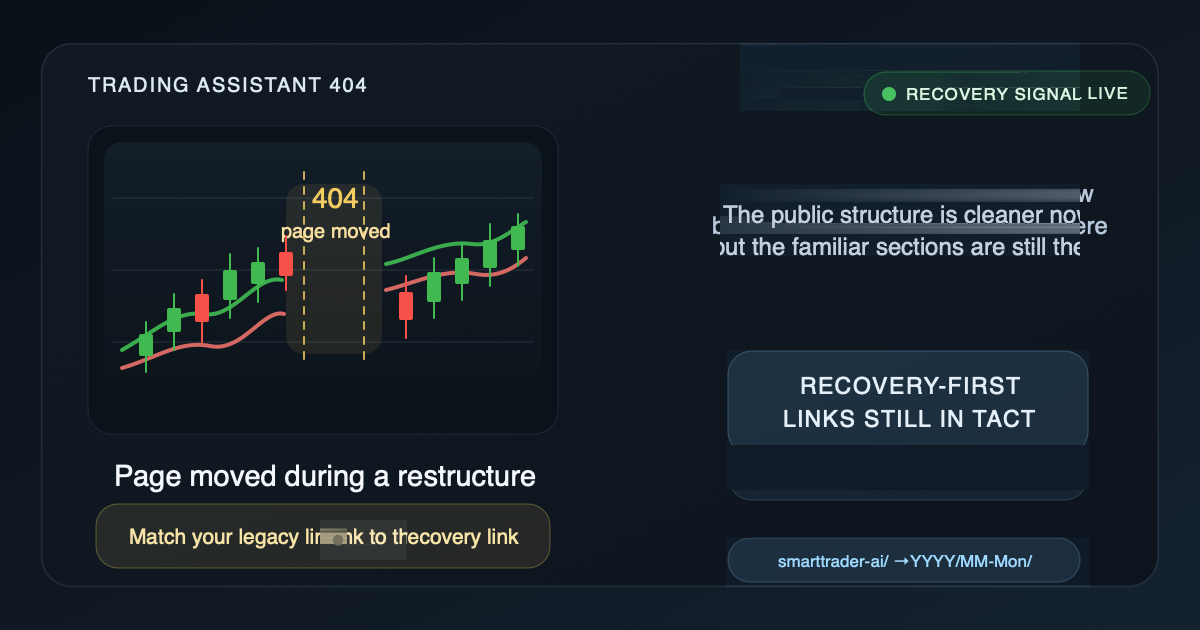
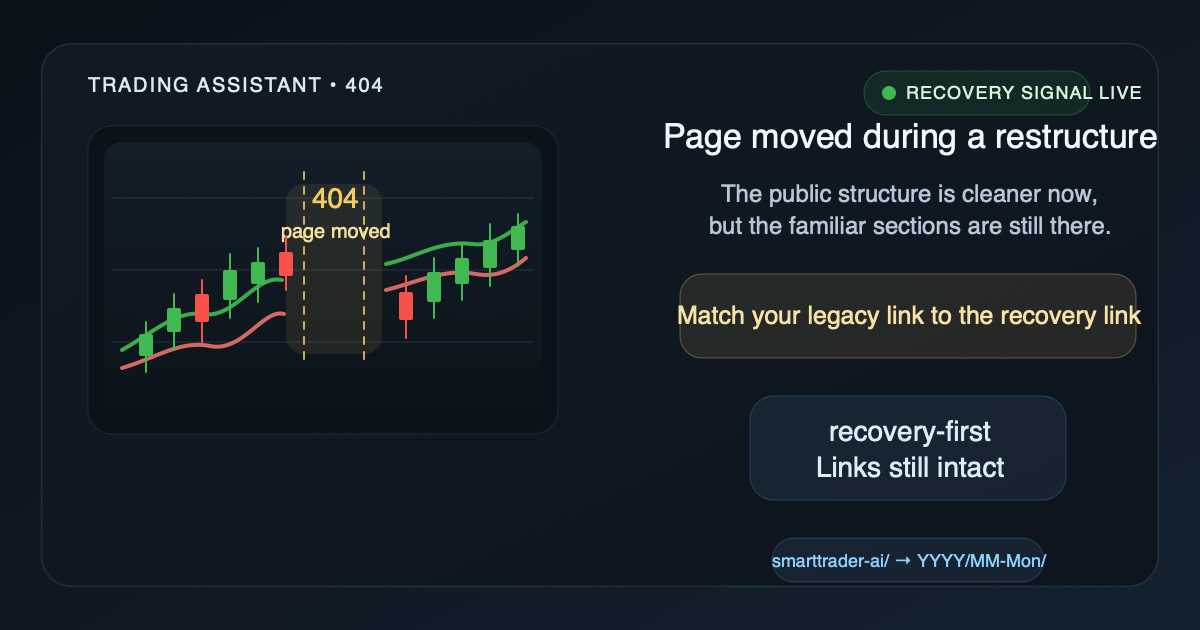
Wave 42 verified package

diff --git a/setup/AugmentArchitecture.html b/setup/AugmentArchitecture.html
@@ -13,8 +13,8 @@
   <meta property="og:description" content="A fuller HTML field guide to Augment’s surfaces, specialists, MCP extension, and careful model-routing language.">
   <meta property="og:type" content="article">
   <meta property="og:url" content="https://drasticstatic.github.io/trading-assistant-public-preview/setup/AugmentArchitecture.html">
-  <meta property="og:image" content="https://drasticstatic.github.io/trading-assistant-public-preview/setup/aug-arch-preview.svg">
-  <meta property="og:image:secure_url" content="https://drasticstatic.github.io/trading-assistant-public-preview/setup/aug-arch-preview.svg">
+  <meta property="og:image" content="https://drasticstatic.github.io/trading-assistant-public-preview/setup/aug-arch-preview.svg?v=20260308-embed1">
+  <meta property="og:image:secure_url" content="https://drasticstatic.github.io/trading-assistant-public-preview/setup/aug-arch-preview.svg?v=20260308-embed1">
   <meta property="og:image:type" content="image/svg+xml">
   <meta property="og:image:width" content="1200">
   <meta property="og:image:height" content="720">
@@ -22,7 +22,7 @@
   <meta name="twitter:card" content="summary_large_image">
   <meta name="twitter:title" content="Augment Architecture — Field Guide, Not a Mystery Box">
   <meta name="twitter:description" content="Expanded HTML field guide covering Augment’s surfaces, specialists, MCP extension, and model-routing guidance.">
-  <meta name="twitter:image" content="https://drasticstatic.github.io/trading-assistant-public-preview/setup/aug-arch-preview.svg">
+  <meta name="twitter:image" content="https://drasticstatic.github.io/trading-assistant-public-preview/setup/aug-arch-preview.svg?v=20260308-embed1">
   <meta name="twitter:image:alt" content="Augment Architecture field guide preview with centered title lines, four surface cards, and a blue-green-purple divider accent.">
   <link rel="icon" href="./favicon_aug.svg?v=20260308" type="image/svg+xml" sizes="any">
   <link rel="shortcut icon" href="./favicon_aug.svg?v=20260308" type="image/svg+xml">

diff --git a/README.md b/README.md
@@ -2,15 +2,7 @@
 
 > A live, multi-agent AI trading accountability system built on Claude Code CLI + Augment Code
 
-![Public Preview](https://img.shields.io/badge/%F0%9F%8C%90%20Public%20Preview-Available-brightgreen)
-
-![Synced via GitExporter](https://img.shields.io/badge/Synced%20via-GitExporter-blue)
-
-![Built with Claude Code](https://img.shields.io/badge/Built%20with-Claude%20Code%20CLI-blueviolet)
-
-![Built with Augment](https://img.shields.io/badge/Built%20with-Augment-0B0F19)
-
-![Status](https://img.shields.io/badge/Status-%F0%9F%94%A5%20Live-brightgreen)
+[![Public Preview](https://img.shields.io/badge/%F0%9F%8C%90%20Public%20Preview-Available-brightgreen)](https://drasticstatic.github.io/trading-assistant-public-preview/) [![Synced via GitExporter](https://img.shields.io/badge/Synced%20via-GitExporter-blue)](https://github.com/drasticstatic/trading-assistant/blob/main/gitexporter.config.json) [![Built with Claude Code](https://img.shields.io/badge/Built%20with-Claude%20Code%20CLI-blueviolet)](https://code.claude.com/docs/en/overview) [![Built with Augment](https://img.shields.io/badge/Built%20with-Augment-0B0F19)](https://augmentcode.com) [![Status](https://img.shields.io/badge/Status-%F0%9F%94%A5%20Live-brightgreen)](https://code.claude.com/docs/en/cli-reference)
 
 > [🗺️ Wondering where to go next? 🧭 → Click HERE to find your way around 🔍](https://drasticstatic.github.io/trading-assistant-public-preview/)
 
@@ -70,9 +62,9 @@ Kavanah (Augment Intent) — task orchestration, documentation, strategy refs
     └─────────────────────────────────────────┘
 ```
 
-- `setup/system-overview.md` — high-level map of the agents, clones, MCP servers, and workflow lanes.
-- `setup/AugmentArchitecture.md` — deeper Augment / Intent architecture and delegation model.
-- `setup/AugmentArchitecture.html` — clean HTML companion for the Augment architecture guide.
+- [`setup/system-overview.md`](setup/system-overview.md) — high-level map of the agents, clones, MCP servers, and workflow lanes.
+- [`setup/AugmentArchitecture.md`](setup/AugmentArchitecture.md) — deeper Augment / Intent architecture and delegation model.
+- [`setup/AugmentArchitecture.html`](https://drasticstatic.github.io/trading-assistant-public-preview/setup/AugmentArchitecture.html) — clean HTML companion for the Augment architecture guide.
 
 ## 📐 Strategy Stack
 